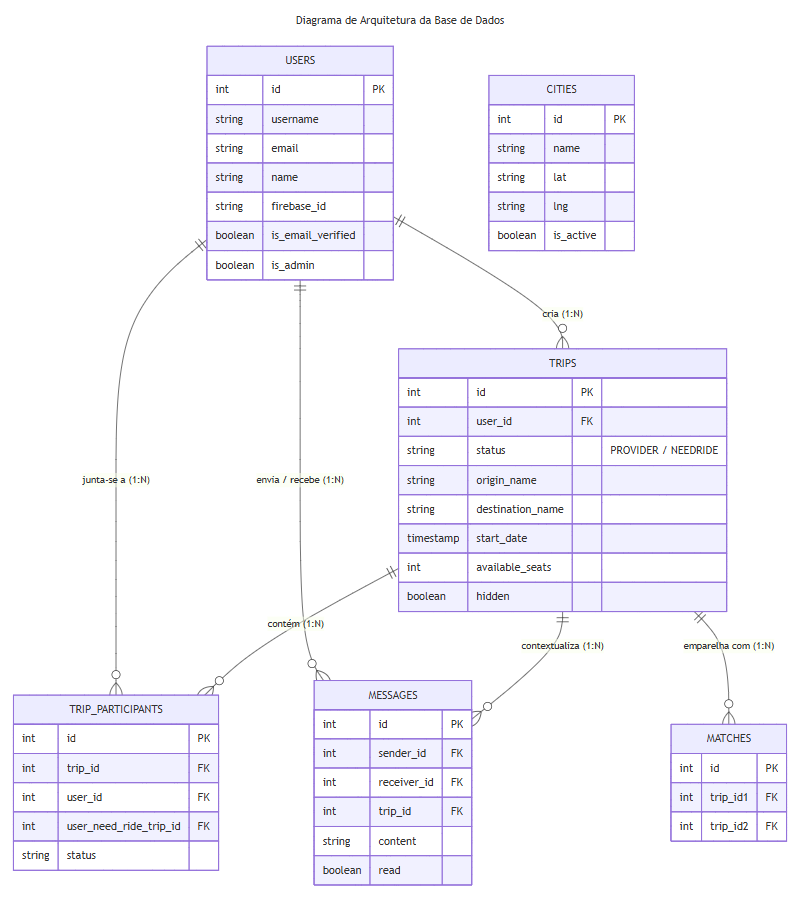
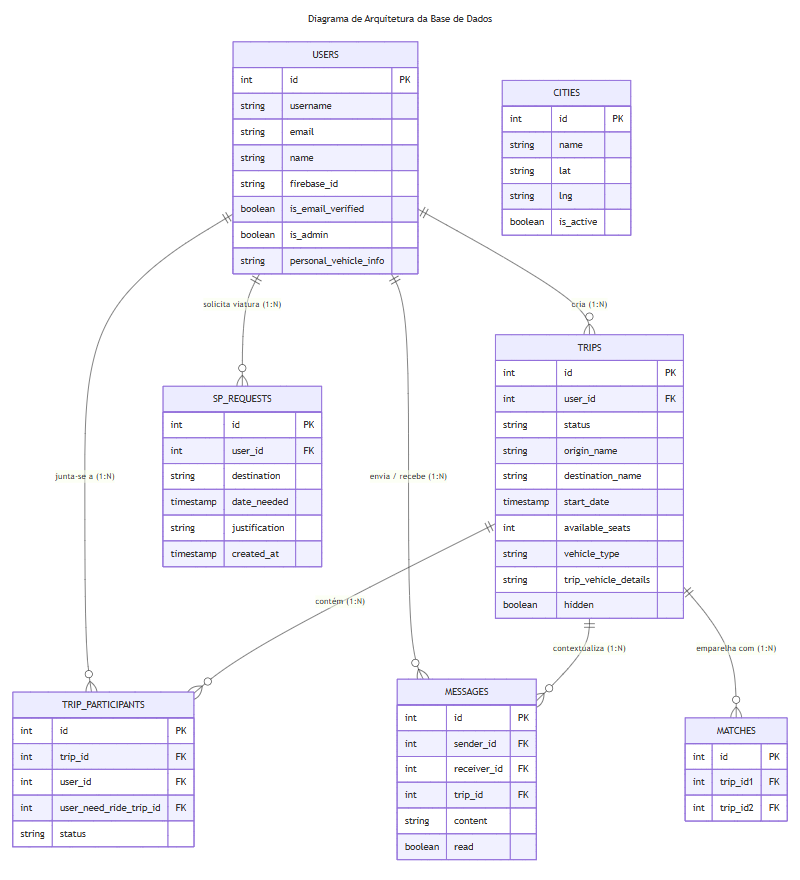
Acrescentado Viatura e Solicitação de Viatura

diff --git a/Documentation/Projeto_Informacao.md b/Documentation/Projeto_Informacao.md
@@ -30,9 +30,10 @@ A autenticação dos diversos utilizadores é realizada através da conta google
 - **Dashboard**: Lista as próximas viagens disponíveis, ordenadas por data ou por localizações.
 - **Minhas Viagens**: Organizada por viagens ativas, correspondências (matches) e histórico de viagens.
 - **Detalhes da Viagem**: Informação detalhada sobre o trajeto, condutor, observações e lista de participantes atualizada.
-- **Perfil**: Gerir dados pessoais, preferências de condutor (veículo, lugares) e regras de passageiros.
+- **Perfil**: Gerir dados pessoais, preferências de condutor (veículo, lugares), regras de passageiros e o registo da viatura pessoal (para preenchimento automático em futuras viagens).
 - **Administração de Cidades**: Área restrita para administradores gerirem a lista de cidades portuguesas disponíveis e as suas coordenadas geográficas.
 - **Autenticação**: Login e verificação de e-mail.
+- **Gestão de Frota (Serviços Partilhados)**: Capacidade de o colaborador solicitar uma viatura da empresa para uma deslocação específica, gerando um pedido formal por e-mail e mantendo um histórico de solicitações na plataforma.
 
 ## Tecnologias Utilizadas
 
@@ -53,7 +54,7 @@ A autenticação dos diversos utilizadores é realizada através da conta google
 [Fluxo de Colaboradores - Diagrama](fluxo-utilizadores.md)
 ### Fluxo do Condutor (PROVIDER)
 1. O colaborador acede à plataforma e cria uma nova viagem.
-2. O formulário adapta-se e pede dados precisos: origem, destino, data e hora de partida, e quantos lugares tem disponíveis.
+2. O formulário adapta-se e pede dados precisos: origem, destino, data e hora de partida, lugares disponíveis e o tipo de veículo a utilizar (Viatura pessoal ou da Empresa). Se selecionar viatura pessoal, os dados são preenchidos automaticamente através do seu perfil.
 3. Após submeter, a viagem fica visível no dashboard para todos os colegas visualizarem.
 4. O condutor pode acompanhar na aba "Minhas Viagens" quem se juntou à viagem, os lugares disponíveis e pode usar o sistema de mensagens para combinar detalhes com os passageiros.
 
@@ -61,6 +62,14 @@ A autenticação dos diversos utilizadores é realizada através da conta google
 O passageiro pode fazer 2 coisas:
 1. Verificar no dashboard que viagens estão disponíveis e juntar-se a uma das viagens disponíveis, ficando o lugar reservado.
 2. O passageiro não encontra nenhuma data conveniente e cria um pedido de boleia. Indicando de onde parte e para onde vai. Fica a aguardar que o sistema encontre um condutor disponível.
+
+### Fluxo de Solicitação de Viatura (Serviços Partilhados)
+[Fluxo de Solicitação de Viatura - Diagrama](fluxo-viat.md)
+1. O colaborador necessita de um carro da empresa para uma deslocação e acede à funcionalidade de 'Solicitar Viatura'.
+2. O formulário pré-preenche os seus dados (nome e e-mail) e solicita a origem, o destino, data e uma breve justificação.
+3. Ao submeter, a aplicação envia automaticamente um e-mail formatado para os Serviços Partilhados (SP) com os detalhes do pedido. 
+4. O processo de aprovação e entrega da chave decorre fora da aplicação (via e-mail direto entre o colaborador e os SP).
+5. O colaborador tem acesso a um histórico na plataforma onde pode consultar todas as solicitações de viaturas que já realizou.
 
 ### Fluxo do Administrador
 [Fluxo de Administrador - Diagrama](fluxo-admin.md)
@@ -81,7 +90,7 @@ Para que os utilizadores não tenham de perder tempo a procurar manualmente, a a
 [Fluxo da Gestão de Lugares - Diagrama](fluxo-lugares.md)
 - **Gestão de Datas**: O formulário adapta-se consoante o tipo de utilizador; se for um condutor, exige que se coloque data e hora exatas, mas se for um pedido de boleia dá para colocar intervalos de tempo flexíveis.
 - **Ocultação**: Se um utilizador tinha feito um pedido de boleia, mas juntou-se a uma viagem coincidente, então o seu pedido de boleia é ocultado da dashboard.
-- **Notificações**: O sistema envia e-mails em momentos-chave: quando um match é encontrado, para informar que um utilizador se juntou à viagem, ou para avisar caso a viagem seja cancelada.
+- **Notificações**: O sistema envia e-mails em momentos-chave: quando um match é encontrado, para informar que um utilizador se juntou à viagem, para avisar caso a viagem seja cancelada, e para encaminhar pedidos de viaturas diretamente para o departamento de Serviços Partilhados.
 
 [Fluxo de Notificações por E-Mail - Explicação](fluxo-email1.md)
 

diff --git a/Documentation/fluxo-viat.md b/Documentation/fluxo-viat.md
@@ -1,0 +1,66 @@
+```mermaid
+---
+title: Fluxo de Solicitação de Viatura (Serviços Partilhados)
+---
+graph TD
+    %% 1. ESTILOS
+    classDef ui fill:#dbeafe,stroke:#2563eb,stroke-width:2px,color:#000
+    classDef api fill:#fef3c7,stroke:#d97706,stroke-width:2px,color:#000
+    classDef decisao fill:#f3f4f6,stroke:#374151,stroke-width:2px,color:#000
+    classDef alerta fill:#fee2e2,stroke:#dc2626,stroke-width:2px,color:#000
+    classDef email fill:#fce7f3,stroke:#db2777,stroke-width:2px,color:#000
+    classDef sucesso fill:#dcfce7,stroke:#16a34a,stroke-width:2px,color:#000
+
+    %% 2. CAIXAS
+    A([Colaborador clica em 'Solicitar Viatura'])
+    B[Preenche formulário: Origem, Destino, Data, Justificação]
+    C[Frontend envia dados para o Backend]
+    
+    D[Backend processa o pedido]
+    
+    %% Ramo: Base de Dados (Histórico)
+    E[Grava pedido na Base de Dados]
+    F([UI atualizada: Pedido pendente no Histórico])
+    
+    %% Ramo: Envio de E-mail
+    G[SendGrid: Dispara E-mail formatado<br>para os Serviços Partilhados]
+    
+    %% Barreira Externa (Fora da App)
+    H{SP analisam o pedido<br>Há carros disponíveis?}
+    
+    %% Decisões dos SP
+    I[Resposta via E-mail: Pedido Rejeitado]
+    J[Resposta via E-mail: Pedido Aprovado<br>Indica viatura a levantar]
+    
+    %% Ação Final
+    K([Colaborador cria Nova Viagem<br>Seleciona 'Viatura Empresa'])
+
+    %% 3. LIGAÇÕES
+    A --> B
+    B --> C
+    C --> D
+    
+    %% Ações simultâneas do Backend
+    D --> E
+    D --> G
+    
+    E --> F
+    
+    %% Fluxo Externo à App
+    G -.->|Tratado fora da App| H
+    
+    H -->|Não| I
+    H -->|Sim| J
+    
+    %% Volta à App
+    J -.->|Se aprovado, volta à App| K
+
+    %% 4. APLICAR CORES
+    class A,B,K ui;
+    class C,D,E api;
+    class H decisao;
+    class G,I,J email;
+    class F sucesso;
+    class I alerta;
+    class J sucesso;
+```

diff --git a/Documentation/fluxo-global.md b/Documentation/fluxo-global.md
@@ -1,6 +1,6 @@
 ```mermaid
 ---
-title: Fluxo Global da Plataforma
+title: Fluxo Global da Plataforma para Utilizadores
 ---
 graph TD
     %% Estilos
@@ -9,15 +9,24 @@ graph TD
     classDef passageiro fill:#fce7f3,stroke:#db2777,stroke-width:2px,color:#000
     classDef admin fill:#e9d5ff,stroke:#9333ea,stroke-width:2px,color:#000
     classDef sistema fill:#fef3c7,stroke:#d97706,stroke-width:2px,stroke-dasharray: 5 5,color:#000
+    classDef frota fill:#ccfbf1,stroke:#0d9488,stroke-width:2px,color:#000
 
     %% Estrutura Base Unificada
     A([Login ou Registo]) --> B[Dashboard Principal]
     B --> C{O que precisas de fazer?}
 
+    %% FLUXO DE FROTA / SP (NOVO)
+    C -->|Pedir Carro Empresa| SP1[Solicitar Viatura aos SP]
+    SP1 --> SP2[Preencher: Destino, Data e Justificação]
+    SP2 -.->|Sistema envia E-mail| SP3[Aguardar Resposta dos SP via E-mail]
+    SP3 -.->|Se Aprovado| D
+
     %% FLUXO DO CONDUTOR (Acesso: Todos)
     C -->|Oferecer Boleia| D[Criar Viagem PROVIDER]
     D --> E[Inserir: Origem, Destino, Datas e Lugares]
-    E --> F[Viagem publicada no Dashboard]
+    E --> E2{Escolher Viatura}
+    E2 -->|Viatura Pessoal| F[Viagem publicada no Dashboard]
+    E2 -->|Viatura da Empresa| F
     F --> G[Acompanhar em Minhas Viagens]
     G --> H([Fim: Interagir no Chat])
 
@@ -53,8 +62,9 @@ graph TD
 
     %% Aplicar as classes
     class A,B,C login;
-    class D,E,F,G,H condutor;
+    class D,E,E2,F,G,H condutor;
     class I,J,K,L,M,O,P,Q passageiro;
     class N,R,S sistema;
     class T,U,V,W,X,Y,Z,AA admin;
+    class SP1,SP2,SP3 frota;
 ```

diff --git a/Documentation/fluxo-email1.md b/Documentation/fluxo-email1.md
@@ -11,5 +11,6 @@ O sistema atualmente tem 5 tipos de e-mails configurados, que disparam automatic
 3. **Confirmação de Reserva**: Quando o passageiro clica no botão de 'Juntar-se' a uma viagem. Apenas o passageiro recebe. O e-mail confirma a reserva e fornece os detalhes da viagem, o nome do condutor e o número de lugares que ainda sobram no carro.
 4. **Alerta de Novo Passageiro**: Quando um passageiro se junta a uma viagem. Apenas o condutor (PROVIDER) recebe o e-mail. O e-mail informa o condutor de que um colega (indicando o nome) acabou de reservar um lugar no seu carro, sugerindo a utilização do Chat da plataforma para combinar detalhes.
 5. **Alerta de Cancelamento**: Quando um condutor elimina uma viagem que já tinha lugares reservados. O e-mail é enviado a todos os passageiros que estavam inscritos nessa viagem. O e-mail contém um aviso urgente de que a viagem para a qual estavam inscritos entre a origem X e o destino Y, foi cancelada pelo condutor, permitindo que os passageiros procurem uma alternativa.
+6. **Solicitação de Viatura**: Quando um colaboorador utiliza o botão 'Solicitar Viatura' na plataforma. Destinado exclusivamente ao departamento de Serviços Partilhados (SP). O e-mail é formatado com os dados do pedido (colaborador, data, origem, destino e justificação) e configurado para que, ao clicarem em 'Enviar', a resposta siga diretamente para o e-mail do departamento dos Serviços Partilhados, facilitando a Gestão Logística fora da plataforma.
 
 [Fluxo das Notificações por E-mail](fluxo-email.md)

diff --git a/Documentation/fluxo-utilizadores.md b/Documentation/fluxo-utilizadores.md
@@ -8,15 +8,24 @@ graph TD
     classDef condutor fill:#dbeafe,stroke:#2563eb,stroke-width:2px,color:#000
     classDef passageiro fill:#fce7f3,stroke:#db2777,stroke-width:2px,color:#000
     classDef sistema fill:#fef3c7,stroke:#d97706,stroke-width:2px,stroke-dasharray: 5 5,color:#000
+    classDef frota fill:#ccfbf1,stroke:#0d9488,stroke-width:2px,color:#000
 
     %% Estrutura Base
     A([Login ou Registo]) --> B[Dashboard Principal]
     B --> C{O que precisas de fazer?}
 
+    %% FLUXO DE FROTA / SP (NOVO)
+    C -->|Pedir Carro Empresa| SP1[Solicitar Viatura aos SP]
+    SP1 --> SP2[Preencher: Destino, Data e Justificação]
+    SP2 -.->|Sistema envia E-mail| SP3[Aguardar Resposta dos SP via E-mail]
+    SP3 -.->|Se Aprovado| D
+
     %% FLUXO DO CONDUTOR
     C -->|Oferecer Boleia| D[Criar Viagem PROVIDER]
-    D --> E[Inserir: Origem, Destino, Datas e Lugares]
-    E --> F[Viagem publicada no Dashboard]
+    D --> E[Inserir: Origem, Destino, Datas e Lugares Disponíveis]
+    E --> E2{Escolher Viatura}
+    E2 -->|Viatura Pessoal| F[Viagem publicada no Dashboard]
+    E2 -->|Viatura da Empresa| F
     F --> G[Acompanhar em Minhas Viagens]
     G --> H([Fim: Interagir no Chat])
 
@@ -40,7 +49,8 @@ graph TD
 
     %% Aplicar as classes
     class A,B,C login;
-    class D,E,F,G,H condutor;
+    class D,E,E2,F,G,H condutor;
     class I,J,K,L,M,O,P,Q passageiro;
     class N,R,S sistema;
+    class SP1,SP2,SP3 frota;
 ```

diff --git a/Documentation/fluxo-admin.md b/Documentation/fluxo-admin.md
@@ -9,15 +9,24 @@ graph TD
     classDef passageiro fill:#fce7f3,stroke:#db2777,stroke-width:2px,color:#000
     classDef admin fill:#e9d5ff,stroke:#9333ea,stroke-width:2px,color:#000
     classDef sistema fill:#fef3c7,stroke:#d97706,stroke-width:2px,stroke-dasharray: 5 5,color:#000
+    classDef frota fill:#ccfbf1,stroke:#0d9488,stroke-width:2px,color:#000
 
     %% Estrutura Base
     A([Login como Admin]) --> B[Dashboard Principal]
     B --> C{O que precisas de fazer?}
 
+    %% FLUXO DE FROTA / SP (NOVO)
+    C -->|Pedir Carro Empresa| SP1[Solicitar Viatura aos SP]
+    SP1 --> SP2[Preencher: Destino, Data e Justificação]
+    SP2 -.->|Sistema envia E-mail| SP3[Aguardar Resposta dos SP via E-mail]
+    SP3 -.->|Se Aprovado| D
+
     %% FLUXO DO CONDUTOR (Ações Comuns)
     C -->|Oferecer Boleia| D[Criar Viagem PROVIDER]
     D --> E[Inserir: Origem, Destino, Datas e Lugares]
-    E --> F[Viagem publicada no Dashboard]
+    E --> E2{Escolher Viatura}
+    E2 -->|Viatura Pessoal| F[Viagem publicada no Dashboard]
+    E2 -->|Viatura da Empresa| F
     F --> G[Acompanhar em Minhas Viagens]
     G --> H([Fim: Interagir no Chat])
 
@@ -53,8 +62,9 @@ graph TD
 
     %% Aplicar as classes
     class A,B,C login;
-    class D,E,F,G,H condutor;
+    class D,E,E2,F,G,H condutor;
     class I,J,K,L,M,O,P,Q passageiro;
     class N,R,S sistema;
     class T,U,V,W,X,Y,Z,AA admin;
+    class SP1,SP2,SP3 frota;
 ```

diff --git a/Documentation/fluxo-email.md b/Documentation/fluxo-email.md
@@ -14,6 +14,7 @@ graph LR
     G2([Algoritmo encontra Match])
     G3([Passageiro clica 'Juntar-se'])
     G4([Condutor cancela a Viagem])
+    G5([Colaborador pede Viatura])
 
     %% 3. MOTOR
     API{{Integração SendGrid}}
@@ -24,14 +25,16 @@ graph LR
     M3[3. Confirmação de Reserva]
     M4[4. Alerta de Novo Passageiro]
     M5[5. Aviso de Cancelamento]
+    M6[6. Solicitação de Viatura]
 
     %% 5. DESTINATÁRIOS
     U1(Novo Utilizador)
     U2(Passageiro)
     U3(Condutor)
     U4(Participantes da Viagem)
+    U5(Serviços Partilhados)
 
-    %% 6. O FLUXO LÓGICO COM IDENTIFICADORES (A, B, C, D)
+    %% 6. O FLUXO LÓGICO COM IDENTIFICADORES (A, B, C, D, E)
     G1 -->|A| API
     API -->|A| M1 -.->|Recebe| U1
     
@@ -45,10 +48,14 @@ graph LR
     
     G4 -->|D| API
     API -->|D| M5 -.->|Recebe| U4
+    
+    %% O novo fluxo E
+    G5 -->|E| API
+    API -->|E| M6 -.->|Recebe| U5
 
     %% 7. APLICAR CORES
-    class G1,G2,G3,G4 gatilho;
+    class G1,G2,G3,G4,G5 gatilho;
     class API api;
-    class M1,M2,M3,M4,M5 email;
-    class U1,U2,U3,U4 user;
+    class M1,M2,M3,M4,M5,M6 email;
+    class U1,U2,U3,U4,U5 user;
 ```

diff --git a/Documentation/base-dados.md b/Documentation/base-dados.md
@@ -12,16 +12,19 @@ erDiagram
         string firebase_id
         boolean is_email_verified
         boolean is_admin
+        string personal_vehicle_info
     }
 
     TRIPS {
         int id PK
         int user_id FK
-        string status "PROVIDER / NEEDRIDE"
+        string status 
         string origin_name
         string destination_name
         timestamp start_date
         int available_seats
+        string vehicle_type 
+        string trip_vehicle_details 
         boolean hidden
     }
 
@@ -56,10 +59,20 @@ erDiagram
         boolean is_active
     }
 
+    SP_REQUESTS {
+        int id PK
+        int user_id FK
+        string destination 
+        timestamp date_needed 
+        string justification 
+        timestamp created_at 
+    }
+
     %% Relações (Foreign Keys)
     USERS ||--o{ TRIPS : "cria (1:N)"
     USERS ||--o{ TRIP_PARTICIPANTS : "junta-se a (1:N)"
     USERS ||--o{ MESSAGES : "envia / recebe (1:N)"
+    USERS ||--o{ SP_REQUESTS : "solicita viatura (1:N)"
     
     TRIPS ||--o{ TRIP_PARTICIPANTS : "contém (1:N)"
     TRIPS ||--o{ MESSAGES : "contextualiza (1:N)"

diff --git a/Documentation/base-dados1.md b/Documentation/base-dados1.md
@@ -18,4 +18,6 @@ A plataforma utiliza uma base de dados relacional PostgreSQL, gerida através da
 
 6. **Cidades (cities)**: Tabela de referência e gestão administrativa. Guarda o catálogo de cidades (nome) usadas nos formulários de criação de viagem. Sendo uma tabela independente, permite aos administradores 'ligar ou desligar' cidades sem quebrar os registos existentes. 
 
+7. **Pedidos de Viatura (sp_requests)**: Tabela de histórico de gestão de veículos. Regista todos os pedidos formais de viaturas da empresa feitos pelos colaboradores aos Serviços Partilhados, guardando a data pretendida, a origem, o destino e a justificação. Funciona como um comprovativo para o utilizador na plataforma
+
 [Diagrama da Base de Dados](base-dados.md)
